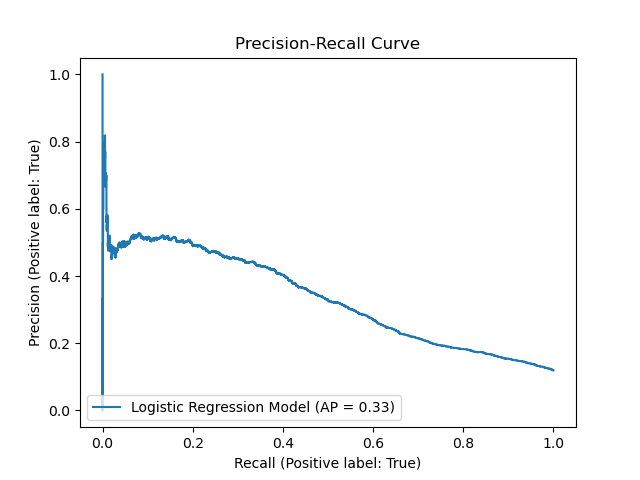
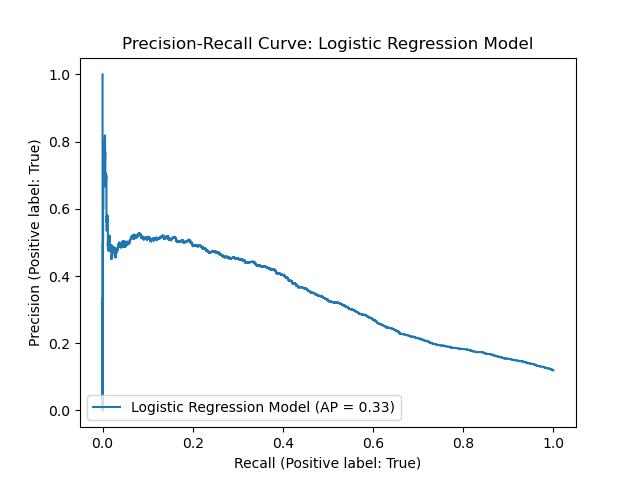
added function to quickly plot evaluations

Changed region(s): [[0.1875, 0.0625, 0.8438, 0.125]]

diff --git a/scripts/evaluate.py b/scripts/evaluate.py
@@ -3,19 +3,17 @@ import matplotlib.pyplot as plt
 import pickle
 from sklearn import set_config
 import os
-from sklearn.metrics import classification_report, roc_auc_score, confusion_matrix
-from sklearn.metrics import ConfusionMatrixDisplay 
-from sklearn.metrics import PrecisionRecallDisplay
-from sklearn.metrics import RocCurveDisplay
+import sys
+from sklearn.metrics import classification_report
 import click
+sys.path.append(os.path.join(os.path.dirname(__file__), '..'))
+from src.evaluate_plot import generate_evaluation_plots
 
 
 @click.command()
 @click.option('--x-test-data', type=str, help="Path to test data features")
 @click.option('--y-test-data', type=str, help="Path to test data target")
-#@click.option('--pipeline-to', type=str, help="Path to directory where the pipeline object will be written to")
 @click.option('--plot-to', type=str, help="Path to directory where the plot will be written to")
-#@click.option('--seed', type=int, help="Random seed", default=123)
 
 def main(x_test_data, y_test_data, plot_to):
     set_config(transform_output="pandas")
@@ -41,38 +39,14 @@ def main(x_test_data, y_test_data, plot_to):
     report_dict = classification_report(y_test, y_pred, output_dict=True)
     pd.DataFrame(report_dict).to_csv("results/tables/metrics.csv")
 
-    #Confusion matrix
-    ConfusionMatrixDisplay.from_estimator(
-        model,
-        X_test_scaled,
-        y_test,
-        values_format="d"
+    # Generate evaluation plots
+    generate_evaluation_plots(
+        model=model,
+        X_test_scaled=X_test_scaled,
+        y_test=y_test,
+        plot_to=plot_to,
+        model_name="Logistic Regression Model"
     )
-    plt.title("Confusion Matrix: Logistic Regression Model")
-    plt.savefig(os.path.join(plot_to, "Confusion_Matrix.png"))
-
-    #Precision-Recall
-    PrecisionRecallDisplay.from_estimator(
-        model,
-        X_test_scaled,
-        y_test,
-        pos_label=True,
-        name='Logistic Regression Model'
-    )
-    plt.title("Precision-Recall Curve")
-    plt.savefig(os.path.join(plot_to, "PR_curve.png"))
-
-    #ROC
-    RocCurveDisplay.from_estimator(
-        model,
-        X_test_scaled,
-        y_test,
-        pos_label=True,
-        name='Logistic Regression Model'
-    )
-    plt.title("ROC Curve")
-    plt.savefig(os.path.join(plot_to, "ROC_curve.png"))
-
 
 if __name__ == '__main__':
     main()

diff --git a/src/evaluate_plot.py b/src/evaluate_plot.py
@@ -1,0 +1,58 @@
+import os
+from sklearn.metrics import ConfusionMatrixDisplay, PrecisionRecallDisplay, RocCurveDisplay
+import matplotlib.pyplot as plt
+
+def generate_evaluation_plots(model, X_test_scaled, y_test, plot_to, model_name="Model"):
+    """
+    Generates and saves confusion matrix, precision-recall, and ROC curve plots.
+    
+    Parameters
+    ----------
+        model: The trained model object.
+        X_test_scaled: The scaled test features.
+        y_test: The true labels for the test set.
+        plot_to: Path to the directory where plots will be saved.
+        model_name: Name of the model for labeling plots (default: "Model").
+
+    Example
+    -------
+    >>> generate_evaluation_plots(model, X_test_scaled, y_test, plot_to="plots", model_name="Logistic Regression Model")
+    plots are made
+    """
+    # Confusion Matrix
+    ConfusionMatrixDisplay.from_estimator(
+        model,
+        X_test_scaled,
+        y_test,
+        values_format="d"
+    )
+    plt.title(f"Confusion Matrix: {model_name}")
+    plt.savefig(os.path.join(plot_to, "Confusion_Matrix.png"))
+    plt.close()
+
+    # Precision-Recall Curve
+    PrecisionRecallDisplay.from_estimator(
+        model,
+        X_test_scaled,
+        y_test,
+        pos_label=True,
+        name=f'{model_name}'
+    )
+    plt.title(f"Precision-Recall Curve: {model_name}")
+    plt.savefig(os.path.join(plot_to, "PR_curve.png"))
+    plt.close()
+
+    # ROC Curve
+    RocCurveDisplay.from_estimator(
+        model,
+        X_test_scaled,
+        y_test,
+        pos_label=True,
+        name=f'{model_name}'
+    )
+    plt.title(f"ROC Curve: {model_name}")
+    plt.savefig(os.path.join(plot_to, "ROC_curve.png"))
+    plt.close()
+
+if __name__ == '__main__':
+    generate_evaluation_plots()
